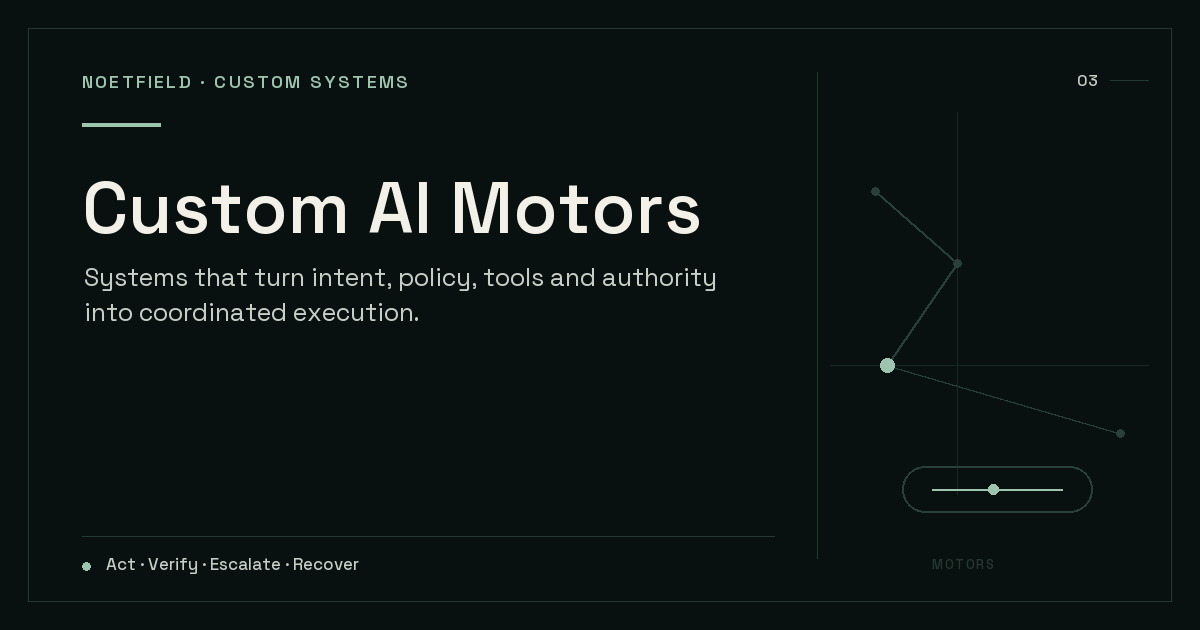
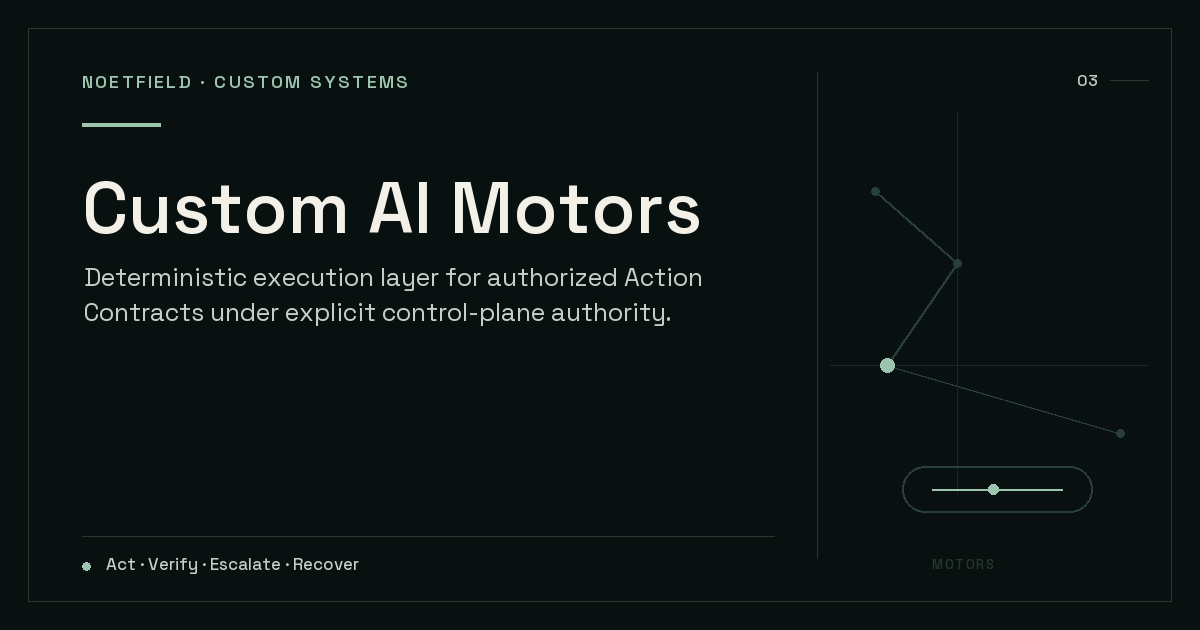
fix(www): put the trader page under managed social metadata
Sharing the Research Trader link produced the generic corporate card, because
the page was never registered with the social-preview machinery — its route had
no profile and its metadata was hand-maintained rather than generated.

It takes the proof card. There is no per-page card here: six canonical cards
serve all 46 indexable routes and the set is asserted in the generator, so the
question is which one the page belongs under, not what to draw for it. The page
is a public demonstration filed under evidence, its own kicker reads "Proof ·
Research Trader", and "Evidence before claims" is the promise it makes.

Adding the route to source_sync_routes also hands its og/twitter/JSON-LD block
to the generator, so the image, alt text and description stay consistent with
every other route instead of drifting the next time one of them is edited.

The motors card is regenerated, not edited. Its committed bytes had drifted
from what the config renders, so check-render was already failing before this
branch; running render to pick up the route change fixed it as a side effect,
and reverting it would mean knowingly re-breaking a determinism gate.

verify: 163 routes, 46 indexable, 117 noindex, artifact 283 static files.

Changed region(s): [[0.0617, 0.4222, 0.5858, 0.4524], [0.0617, 0.4825, 0.555, 0.5127]]

diff --git a/research-trader/index.html b/research-trader/index.html
@@ -5,30 +5,30 @@
  <meta name="viewport" content="width=device-width, initial-scale=1.0" />
  <!-- Noetfield social preview v2: generated from data/noetfield-social-preview-v2.json -->
  <title>Research Trader — Noetfield Systems</title>
- <meta name="description" content="A public agent that screens the crypto market every morning and almost always declines. Research only; it places no orders. Built to show a deterministic gate refusing its own model's output." />
+ <meta name="description" content="A public agent that screens the crypto market every morning and almost always declines. Research only; it places no orders. Built to show a deterministic gate refusing its own model&#x27;s output." />
  <meta name="robots" content="index,follow" />
  <link rel="canonical" href="https://www.noetfield.com/research-trader/" />
  <meta property="og:site_name" content="Noetfield" />
  <meta property="og:title" content="Research Trader — Noetfield Systems" />
- <meta property="og:description" content="A public agent that screens the crypto market every morning and almost always declines. Research only; it places no orders. Built to show a deterministic gate refusing its own model's output." />
+ <meta property="og:description" content="A public agent that screens the crypto market every morning and almost always declines. Research only; it places no orders. Built to show a deterministic gate refusing its own model&#x27;s output." />
  <meta property="og:url" content="https://www.noetfield.com/research-trader/" />
  <meta property="og:type" content="website" />
- <meta property="og:image" content="https://www.noetfield.com/assets/social/noetfield-corporate-v2.png" />
- <meta property="og:image:secure_url" content="https://www.noetfield.com/assets/social/noetfield-corporate-v2.png" />
+ <meta property="og:image" content="https://www.noetfield.com/assets/social/noetfield-proof-v2.png" />
+ <meta property="og:image:secure_url" content="https://www.noetfield.com/assets/social/noetfield-proof-v2.png" />
  <meta property="og:image:width" content="1200" />
  <meta property="og:image:height" content="630" />
- <meta property="og:image:alt" content="Noetfield Systems Inc." />
+ <meta property="og:image:alt" content="Noetfield proof — current systems, verified states and public execution receipts." />
  <meta name="twitter:card" content="summary_large_image" />
  <meta name="twitter:title" content="Research Trader — Noetfield Systems" />
- <meta name="twitter:description" content="A public agent that screens the crypto market every morning and almost always declines. Research only; it places no orders." />
- <meta name="twitter:image" content="https://www.noetfield.com/assets/social/noetfield-corporate-v2.png" />
- <meta name="twitter:image:alt" content="Noetfield Systems Inc." />
+ <meta name="twitter:description" content="A public agent that screens the crypto market every morning and almost always declines. Research only; it places no orders. Built to show a deterministic gate refusing its own model&#x27;s output." />
+ <meta name="twitter:image" content="https://www.noetfield.com/assets/social/noetfield-proof-v2.png" />
+ <meta name="twitter:image:alt" content="Noetfield proof — current systems, verified states and public execution receipts." />
  <!-- nf-json-ld: webpage -->
  <script type="application/ld+json">
 {
   "@context": "https://schema.org",
   "@type": "WebPage",
-  "name": "Research Trader — Noetfield Systems",
+  "name": "Research Trader \u2014 Noetfield Systems",
   "description": "A public agent that screens the crypto market every morning and almost always declines. Research only; it places no orders. Built to show a deterministic gate refusing its own model's output.",
   "url": "https://www.noetfield.com/research-trader/",
   "isPartOf": {
@@ -36,7 +36,7 @@
     "name": "Noetfield",
     "url": "https://www.noetfield.com/"
   },
-  "image": "https://www.noetfield.com/assets/social/noetfield-corporate-v2.png"
+  "image": "https://www.noetfield.com/assets/social/noetfield-proof-v2.png"
 }
  </script>
 
